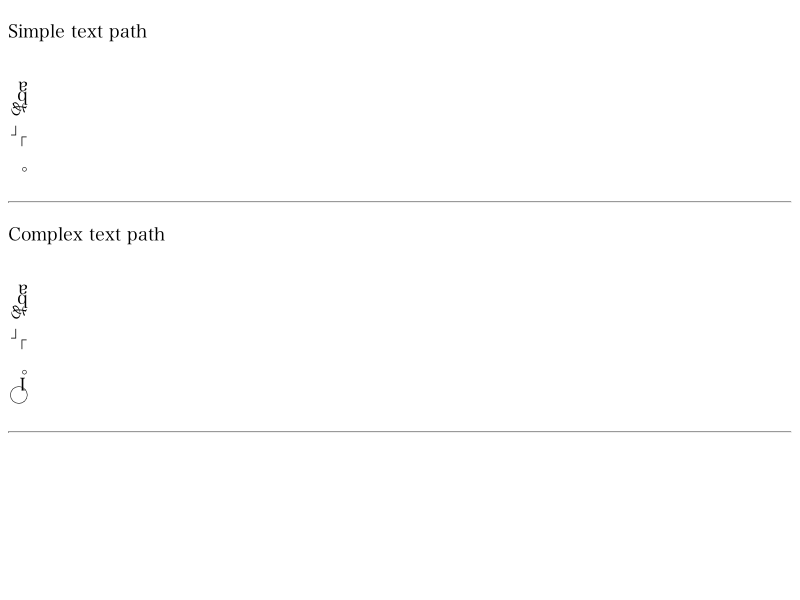
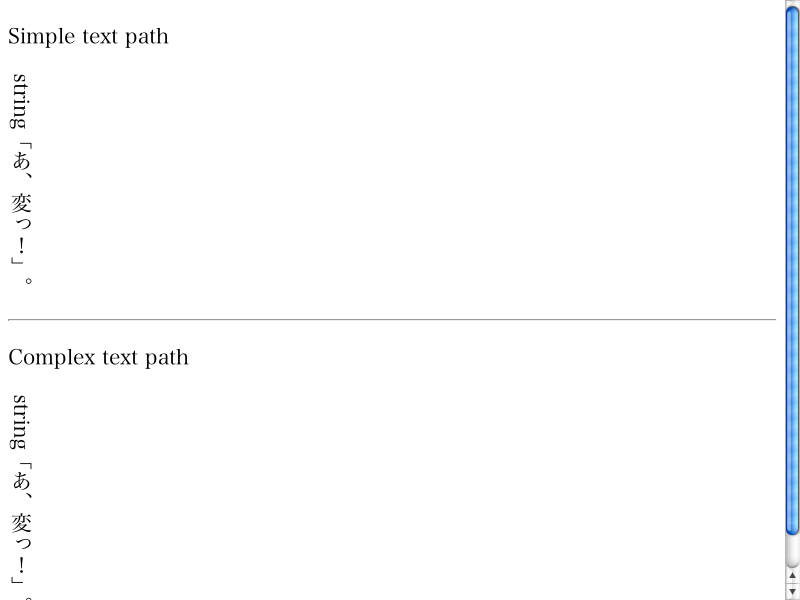
Advances are wrong and glyphs are rotated improperly in vertical writing https://bugs.webkit.org/show_bug.cgi?id=48315
Patch by takano takumi <takano1@asia.apple.com> on 2010-10-26
Reviewed by Dave Hyatt.

WebCore: 

We shouldn't use vertical metrics for Roman fonts. Also, we should rotate vertical variant
glyphs back on drawing as the whole run has already been rotated beforehand.

* platform/graphics/cocoa/FontPlatformDataCocoa.mm:
(WebCore::FontPlatformData::FontPlatformData): Changed to ignore vertical orientation when the font doesn't support vertical metrics.
* platform/graphics/mac/FontMac.mm:
(WebCore::showGlyphsWithAdvances): Changed to rotate glyphs -90 degree for vertical variants.
(WebCore::Font::drawGlyphs):

LayoutTests: 

Changed tests to check more glyphs and updated results.

* fast/text/international/vertical-text-glyph-test.html:
* fast/text/international/vertical-text-metrics-test.html:
* platform/mac/fast/text/international/vertical-text-glyph-test-expected.checksum:
* platform/mac/fast/text/international/vertical-text-glyph-test-expected.png:
* platform/mac/fast/text/international/vertical-text-glyph-test-expected.txt:
* platform/mac/fast/text/international/vertical-text-metrics-test-expected.txt:

git-svn-id: http://svn.webkit.org/repository/webkit/trunk/LayoutTests@70569 268f45cc-cd09-0410-ab3c-d52691b4dbfc

diff --git a/fast/text/international/vertical-text-metrics-test.html b/fast/text/international/vertical-text-metrics-test.html
@@ -26,7 +26,7 @@ function test()
 <style>
 body {
     font-family: "HiraMinPro-W3";
-    font-size: large;
+    font-size: 16pt;
 }
 #horizontal_TB {
     -webkit-writing-mode: horizontal-tb;
@@ -60,17 +60,17 @@ body {
 </head>
 <body onload="test()">
 <p>Simple text path</p>
-<span id="horizontal_TB">abあ「」。</span><br>
-<span id="horizontal_BT">abあ「」。</span><br>
-<span id="vertical_RL">abあ「」。</span><br>
-<span id="vertical_LR">abあ「」。</span><br>
+<span id="horizontal_TB">string「あ、変っ！」。</span><br>
+<span id="horizontal_BT">string「あ、変っ！」。</span><br>
+<span id="vertical_RL">string「あ、変っ！」。</span><br>
+<span id="vertical_LR">string「あ、変っ！」。</span><br>
 <br>
 <hr>
 <p>Complex text path</p>
-<span id="horizontal_TB_complex">abあ「」。1⃝</span><br>
-<span id="horizontal_BT_complex">abあ「」。1⃝</span><br>
-<span id="vertical_RL_complex">abあ「」。1⃝</span><br>
-<span id="vertical_LR_complex">abあ「」。1⃝</span><br>
+<span id="horizontal_TB_complex">string「あ、変っ！」。</span><br>
+<span id="horizontal_BT_complex">string「あ、変っ！」。</span><br>
+<span id="vertical_RL_complex">string「あ、変っ！」。</span><br>
+<span id="vertical_LR_complex">string「あ、変っ！」。</span><br>
 <br>
 <hr>
 <p><ol id=console></ol></p>

diff --git a/fast/text/international/vertical-text-glyph-test.html b/fast/text/international/vertical-text-glyph-test.html
@@ -6,7 +6,7 @@
 <style>
 body {
     font-family: "HiraMinPro-W3";
-    font-size: large;
+    font-size: 16pt;
 }
 #horizontal_TB {
     -webkit-writing-mode: horizontal-tb;
@@ -40,12 +40,9 @@ body {
 </head>
 <body>
 <p>Simple text path</p>
-<span id="vertical_RL">abあ「」。</span><br>
-<br>
+<span id="vertical_RL">string「あ、変っ！」。</span>
 <hr>
 <p>Complex text path</p>
-<span id="vertical_RL_complex">abあ「」。1⃝</span><br>
-<br>
-<hr>
+<span id="vertical_RL_complex">string「あ、変っ！」。</span>
 </body>
 </html>
